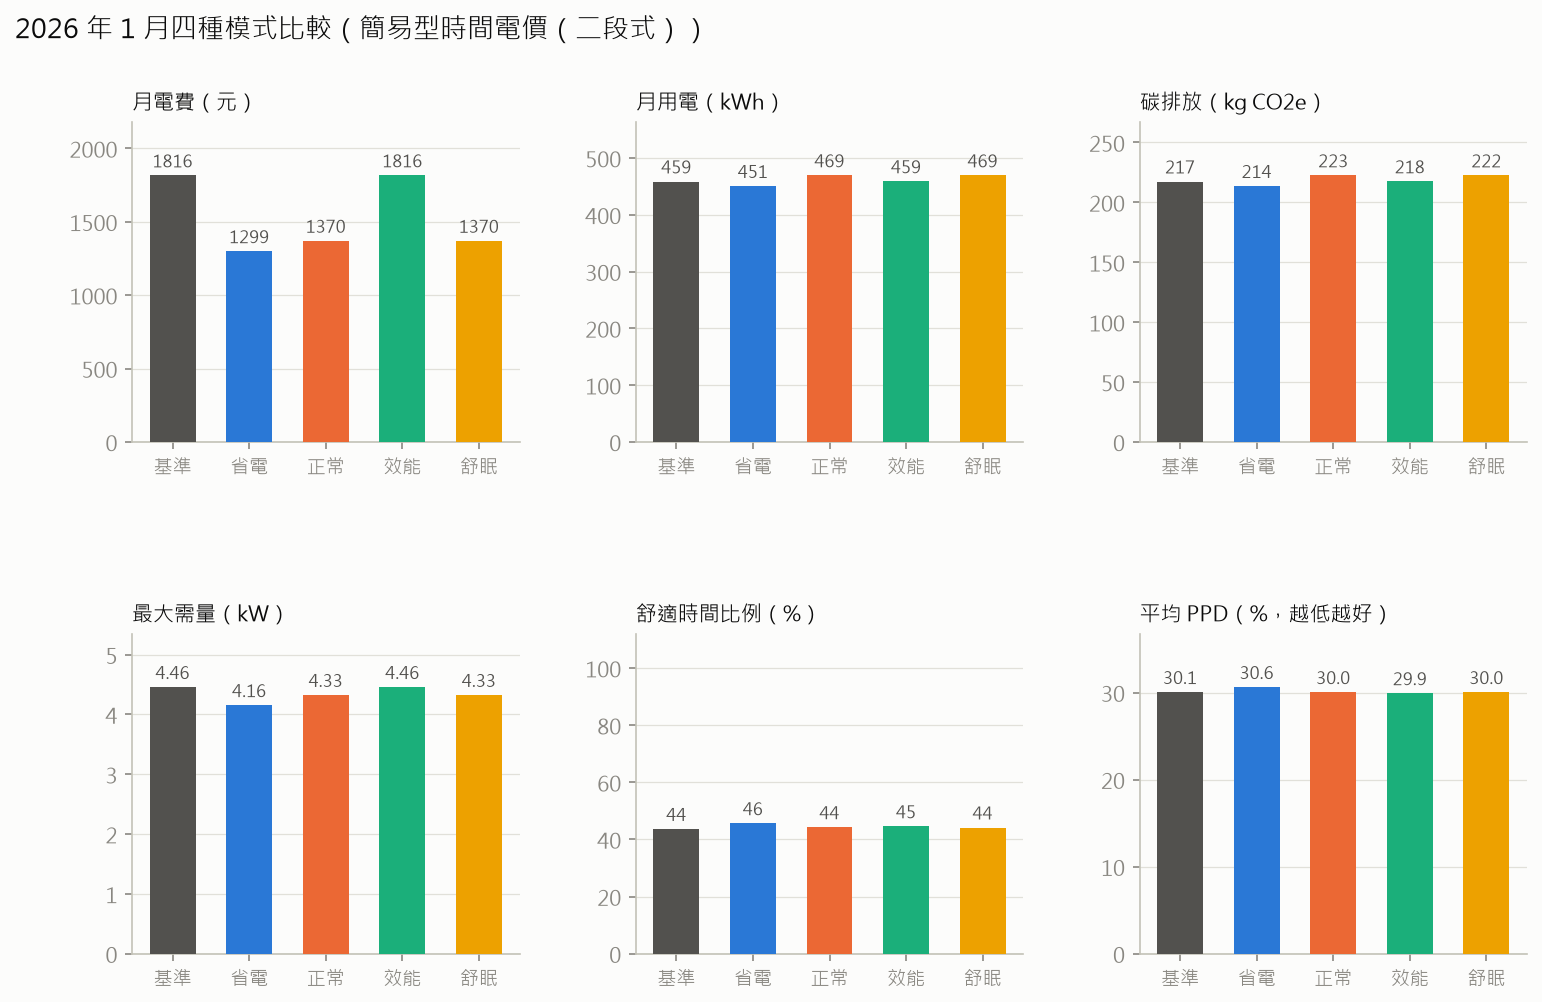
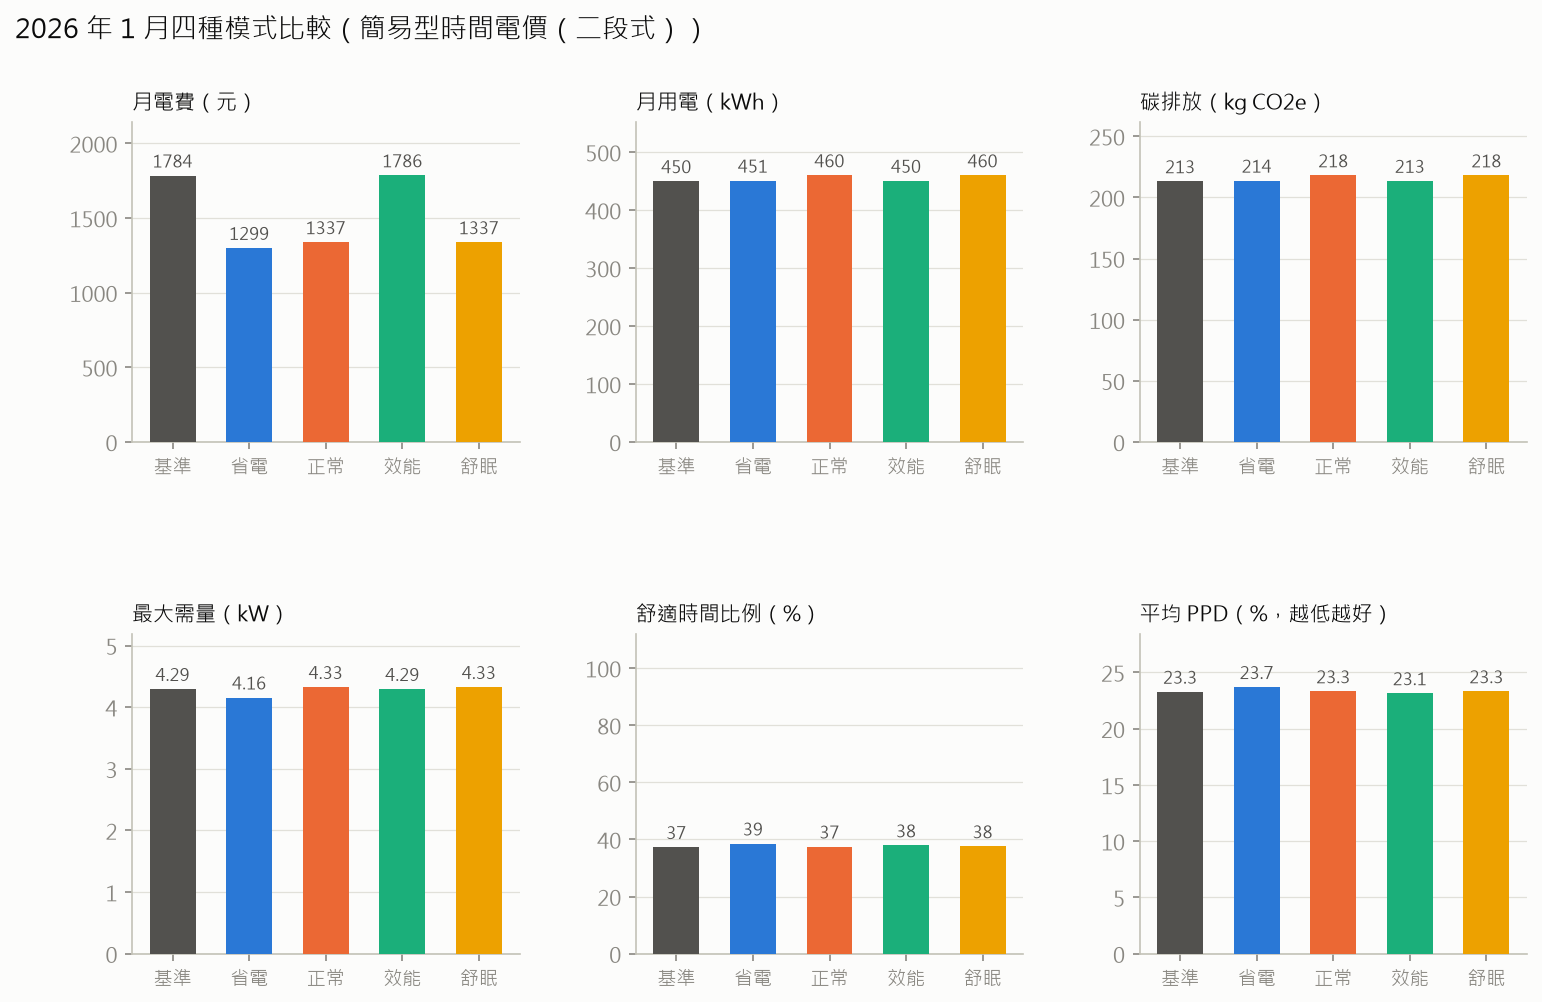
修正：計算子程序重跑整個網頁程式、分析頁模式比較偶發錯誤；清理與文件更新
- core/parallel.py：在 Streamlit 裡開子程序時暫時把主程式換成空模組。原本 Windows／spawn 會讓每個子程序
  重新執行 app.py（載入設定檔、建立模型、自動存檔），一次整月分析多跑 12 次網頁程式；
  修正後載入設定檔 13 → 1 次，第一次整月分析 4.8 → 3.3 秒，雲端單核心主機影響更大
- ui/context.py：模式比較改用屬性判斷取代 isinstance（開發時模組重新載入後快取物件類別不同，記錄檔中的
  'SimulationResult' object has no attribute 'result'）
- 移除未使用的 Tariff.plan_names；.streamlit/config.toml 隱藏開發者用的 Deploy 按鈕
- GitHub Actions 升級 checkout@v5、setup-python@v6（Node 20 即將淘汰）
- 重新產生 docs/reports/report_2026-01／07.md 與整月比較圖；data/public/README.md 比較表更新為目前模型
- 新增測試：子程序不重跑網頁程式、命令列腳本不受影響

diff --git a/core/parallel.py b/core/parallel.py
@@ -10,8 +10,11 @@ from __future__ import annotations
 import logging
 import multiprocessing
 import os
+import sys
+import types
 from collections.abc import Callable
 from concurrent.futures import ProcessPoolExecutor
+from contextlib import contextmanager
 from pathlib import Path
 
 log = logging.getLogger("hems.parallel")
@@ -63,6 +66,30 @@ def _pool() -> ProcessPoolExecutor:
     return _POOL
 
 
+@contextmanager
+def _plain_main():
+    """在 Streamlit 伺服器裡開子程序時，暫時把主程式換成空模組。
+
+    Windows（spawn）開子程序時會重新執行「主程式」準備環境；Streamlit 把 app.py 登記為主程式，
+    結果每個計算子程序都把整個網頁程式跑一遍（載入設定檔、建立模型、自動存檔），浪費時間、記憶體，
+    也可能同時寫入資料庫。計算函式都在 core/ 的模組裡，子程序不需要主程式。
+    命令列腳本不受影響（它們的平行函式可能定義在腳本本身，子程序需要載入主程式）。"""
+    try:
+        from streamlit import runtime
+        in_streamlit = runtime.exists()
+    except ImportError:
+        in_streamlit = False
+    main = sys.modules.get("__main__")
+    if not in_streamlit or main is None:
+        yield
+        return
+    sys.modules["__main__"] = types.ModuleType("__main__")
+    try:
+        yield
+    finally:
+        sys.modules["__main__"] = main
+
+
 def parallel_map(fn: Callable, items, *args) -> list:
     """回傳 [fn(item, *args) for item in items]，依 items 順序。fn 必須是模組層級的函式（才能傳給其他程序）。"""
     global _POOL
@@ -70,7 +97,8 @@ def parallel_map(fn: Callable, items, *args) -> list:
     if worker_count() <= 1 or len(items) <= 1:
         return [fn(item, *args) for item in items]
     try:
-        futures = [_pool().submit(fn, item, *args) for item in items]
+        with _plain_main():
+            futures = [_pool().submit(fn, item, *args) for item in items]
         return [f.result() for f in futures]
     except Exception as e:   # noqa: BLE001
         # 無法傳給其他程序（Python 3.11 序列化區域函式丟 AttributeError、3.14 丟 PicklingError）、

diff --git a/tests/test_parallel.py b/tests/test_parallel.py
@@ -51,3 +51,18 @@ def test_postgres_connection_is_encrypted(monkeypatch):
     assert "ssl_context" in connect_args("postgresql+pg8000://u:p@db.example.com:5432/postgres")
     monkeypatch.setenv("HEMS_DB_SSL", "disable")
     assert connect_args("postgresql+pg8000://u:p@localhost/postgres") == {}
+
+
+def test_workers_do_not_rerun_streamlit_app(monkeypatch):
+    # 在 Streamlit 裡開子程序時，主程式（app.py）暫時換成空模組，子程序不會把整個網頁程式重跑一遍
+    import sys
+
+    from streamlit import runtime
+    real_main = sys.modules["__main__"]
+    monkeypatch.setattr(runtime, "exists", lambda: True)
+    with parallel._plain_main():
+        assert sys.modules["__main__"] is not real_main and not hasattr(sys.modules["__main__"], "__file__")
+    assert sys.modules["__main__"] is real_main                      # 結束後還原
+    monkeypatch.setattr(runtime, "exists", lambda: False)
+    with parallel._plain_main():
+        assert sys.modules["__main__"] is real_main                  # 命令列腳本不受影響

diff --git a/ui/context.py b/ui/context.py
@@ -36,7 +36,9 @@ def get_analyzer(settings_key: str) -> Analyzer:
 @st.cache_data(max_entries=16, show_spinner="四種模式最佳化中…")
 def compare_day(_analyzer: Analyzer, settings_key: str, day: date, plan_id: str):
     table, results = _analyzer.compare_day(day, plan_id)
-    sims = {BASELINE if k == "基準" else _analyzer.opt.modes[k].name: (r if isinstance(r, SimulationResult) else r.result)
+    # 最佳化結果包著推演結果（.result）；基準直接是推演結果。用屬性判斷而不用 isinstance：
+    # 開發時 Streamlit 重新載入模組後，快取裡舊物件的類別和新類別不同，isinstance 會誤判
+    sims = {BASELINE if k == "基準" else _analyzer.opt.modes[k].name: getattr(r, "result", r)
             for k, r in results.items()}
     return table, sims
 

diff --git a/core/tariff.py b/core/tariff.py
@@ -45,9 +45,6 @@ class Tariff:
                     if hours != list(range(24)):
                         raise ValueError(f"{pid} {season} {day_type} 的時段沒有剛好涵蓋 24 小時")
 
-    def plan_names(self) -> dict[str, str]:
-        return {pid: p["name"] for pid, p in self.plans.items()}
-
     def is_summer(self, day: date) -> bool:
         return day.month in self.config["summer_months"]
 

diff --git a/docs/reports/report_2026-07.md b/docs/reports/report_2026-07.md
@@ -1,4 +1,4 @@
-# 2026 年 7 月 HEMS 模式比較與節省建議
+# 2026 年 7 月 HEMS 模式比較與節省建議
 
 - 房型：標配房型（3 房 2 衛），4 人
 - 電價方案：簡易型時間電價（二段式）（各模式依此方案最佳化）
@@ -9,40 +9,39 @@
 
 | 模式 | 月用電(kWh) | 簡易型時間電價（二段式）(元) | 簡易型時間電價（三段式）(元) | 非時間電價（累進電價，住宅用）(元) | 平均舒適時間比例(%) | 平均溫差(°C) | 最大需量(kW) | 碳排放(kg) | 平均PPD(%) | PMV舒適比例(%) | 月電費節省(%) |
 |---|---|---|---|---|---|---|---|---|---|---|---|
-| 基準（一般習慣） | 562.0 | 2183.6 | 2647.3 | 1714.0 | 59.3 | 1.7 | 4.0 | 266.4 | 11.7 | 5.9 | 0.0 |
-| 省電模式 | 457.5 | 1518.3 | 1742.2 | 1233.4 | 76.8 | 1.6 | 2.5 | 216.8 | 15.8 | 55.2 | 30.5 |
-| 正常模式 | 506.7 | 1706.1 | 1957.2 | 1429.4 | 97.6 | 0.8 | 2.6 | 240.2 | 7.5 | 93.7 | 21.9 |
-| 效能模式 | 523.0 | 2064.1 | 2498.0 | 1513.5 | 100.0 | 0.7 | 4.0 | 247.9 | 5.8 | 100.0 | 5.5 |
-| 舒眠模式 | 513.6 | 1734.8 | 1990.5 | 1464.8 | 97.6 | 0.6 | 2.7 | 243.4 | 7.0 | 93.6 | 20.6 |
+| 基準（一般習慣） | 634.6 | 2469.3 | 3007.5 | 2086.9 | 59.1 | 1.7 | 4.0 | 300.8 | 10.2 | 64.8 | 0.0 |
+| 省電模式 | 501.1 | 1696.8 | 1970.1 | 1400.6 | 71.9 | 1.6 | 3.1 | 237.5 | 18.2 | 18.4 | 31.3 |
+| 正常模式 | 567.9 | 1946.7 | 2263.8 | 1743.9 | 97.9 | 0.8 | 3.4 | 269.2 | 8.8 | 92.8 | 21.2 |
+| 效能模式 | 582.0 | 2305.4 | 2809.0 | 1816.7 | 100.0 | 0.7 | 4.0 | 275.9 | 5.8 | 100.0 | 6.6 |
+| 舒眠模式 | 573.1 | 1972.3 | 2292.8 | 1770.6 | 97.8 | 0.6 | 3.4 | 271.6 | 8.2 | 93.2 | 20.1 |
 
-![模式比較](../images/compare_month_2026-07.png)
+![模式比較](compare_month_2026-07.png)
 
 ## 節省建議（依每月可省金額排序）
 
-1. **綜合建議：每月約省 754 元（55 度）**  
-   改用正常模式並換成非時間電價（累進電價，住宅用）：每月電費 2184 → 1429 元（−35%），碳排放減少 26 kg CO2e，舒適時間同時由 59% 提升到 98%。  
+1. **綜合建議：每月約省 725 元（67 度）**  
+   改用正常模式並換成非時間電價（累進電價，住宅用）：每月電費 2469 → 1744 元（−29%），碳排放減少 32 kg CO2e，舒適時間同時由 59% 提升到 98%。  
    ※ 以下各項建議彼此有重疊，請勿直接相加。
-2. **改用正常模式：每月約省 478 元（55 度）**  
-   在舒適時間 ≥ 95% 的模式中電費最低；舒適時間由 59% 變為 98%，PMV 舒適比例 6% → 94%。  
+2. **改用正常模式：每月約省 523 元（67 度）**  
+   在舒適時間 ≥ 95% 的模式中電費最低；舒適時間由 59% 變為 98%，PMV 舒適比例 65% → 93%。  
    ※ 包含冷氣設定最佳化與可移轉負載排程。
-3. **改用非時間電價（累進電價，住宅用）：每月約省 277 元（用電量不變，省在電價）**  
-   以正常模式的用電模式計算，非時間電價（累進電價，住宅用）每月 1429 元，比目前的簡易型時間電價（二段式） 1706 元便宜。原因：冷氣多在晚間尖峰使用且無法移轉，時間電價的離峰優惠用不到。  
-   ※ 以已改用推薦模式為前提，可與「改用模式」相加。
-4. **熱水與洗衣移到離峰：每月約省 247 元（用電量不變，省在電價）**  
+3. **熱水與洗衣移到離峰：每月約省 247 元（用電量不變，省在電價）**  
    電熱水器、洗衣機、烘衣機用定時器排在離峰時段（已計入熱水器提早燒的散熱損失），並錯開運轉以降低最大需量。  
    ※ 已包含在「改用正常模式」的節省中。
-5. **耗電大戶：電熱水器（占 15%）：每月約省 236 元（61 度）**  
+4. **耗電大戶：電熱水器（占 14%）：每月約省 236 元（61 度）**  
    電熱水器換成熱泵熱水器（COP 約 3–4）（設備投資，需評估回收年限）。  
    ※ 以基準用電估算；設備改善與行為改善可疊加，但比例會縮小。
-6. **耗電大戶：冷氣（占 48%）：每月約省 159 元（41 度）**  
+5. **改用非時間電價（累進電價，住宅用）：每月約省 203 元（用電量不變，省在電價）**  
+   以正常模式的用電模式計算，非時間電價（累進電價，住宅用）每月 1744 元，比目前的簡易型時間電價（二段式） 1947 元便宜。原因：冷氣多在晚間尖峰使用且無法移轉，時間電價的離峰優惠用不到。  
+   ※ 以已改用推薦模式為前提，可與「改用模式」相加。
+6. **耗電大戶：冷氣（占 54%）：每月約省 201 元（52 度）**  
    冷氣換成一級能效變頻機，並定期清洗濾網（設備投資，需評估回收年限）。  
    ※ 以基準用電估算；設備改善與行為改善可疊加，但比例會縮小。
-7. **冷氣調高 1°C：每月約省 131 元（37 度）**  
-   冷氣設定從 25°C 調到 26°C，冷氣用電減少 14%。經濟部建議冷氣設定 26–28°C。  
+7. **冷氣調高 1°C：每月約省 149 元（42 度）**  
+   冷氣設定從 25°C 調到 26°C，冷氣用電減少 12%。經濟部建議冷氣設定 26–28°C。  
    ※ 不想改用模式時，只做這一步的效果；已包含在「改用模式」的節省中。
-8. **耗電大戶：冰箱（占 7%）：每月約省 29 元（7 度）**  
+8. **耗電大戶：冰箱（占 6%）：每月約省 29 元（7 度）**  
    冰箱勿過滿、門封條定期檢查；老舊冰箱汰換為一級能效（設備投資，需評估回收年限）。  
    ※ 以基準用電估算；設備改善與行為改善可疊加，但比例會縮小。
 9. **避免入睡後過冷**  
    基準情境舒適時間只有 59%：入睡後代謝率下降，整夜維持低溫反而偏冷。可用舒眠模式讓設定溫度隨睡眠逐步調高、起床前回溫。
-

diff --git a/docs/reports/report_2026-01.md b/docs/reports/report_2026-01.md
@@ -1,4 +1,4 @@
-# 2026 年 1 月 HEMS 模式比較與節省建議
+# 2026 年 1 月 HEMS 模式比較與節省建議
 
 - 房型：標配房型（3 房 2 衛），4 人
 - 電價方案：簡易型時間電價（二段式）（各模式依此方案最佳化）
@@ -9,23 +9,23 @@
 
 | 模式 | 月用電(kWh) | 簡易型時間電價（二段式）(元) | 簡易型時間電價（三段式）(元) | 非時間電價（累進電價，住宅用）(元) | 平均舒適時間比例(%) | 平均溫差(°C) | 最大需量(kW) | 碳排放(kg) | 平均PPD(%) | PMV舒適比例(%) | 月電費節省(%) |
 |---|---|---|---|---|---|---|---|---|---|---|---|
-| 基準（一般習慣） | 458.7 | 1815.6 | 1688.9 | 1091.0 | 43.6 | 2.1 | 4.5 | 217.4 | 30.1 | 35.2 | 0.0 |
-| 省電模式 | 450.7 | 1299.1 | 1249.0 | 1065.9 | 45.6 | 2.1 | 4.2 | 213.6 | 30.6 | 35.1 | 28.4 |
-| 正常模式 | 469.5 | 1370.1 | 1314.9 | 1124.8 | 44.2 | 2.1 | 4.3 | 222.5 | 30.0 | 35.0 | 24.5 |
-| 效能模式 | 459.0 | 1816.2 | 1689.5 | 1091.8 | 44.6 | 2.1 | 4.5 | 217.5 | 29.9 | 36.5 | -0.0 |
-| 舒眠模式 | 469.4 | 1369.9 | 1314.7 | 1124.5 | 44.2 | 2.1 | 4.3 | 222.5 | 30.0 | 35.0 | 24.6 |
+| 基準（一般習慣） | 449.6 | 1784.1 | 1659.5 | 1062.7 | 37.3 | 2.1 | 4.3 | 213.1 | 23.3 | 50.5 | 0.0 |
+| 省電模式 | 450.7 | 1299.1 | 1249.0 | 1065.9 | 38.5 | 2.1 | 4.2 | 213.6 | 23.7 | 48.8 | 27.2 |
+| 正常模式 | 459.9 | 1337.5 | 1284.3 | 1094.8 | 37.5 | 2.1 | 4.3 | 218.0 | 23.3 | 50.0 | 25.0 |
+| 效能模式 | 450.3 | 1785.5 | 1660.9 | 1064.9 | 37.9 | 2.1 | 4.3 | 213.5 | 23.1 | 50.8 | -0.1 |
+| 舒眠模式 | 459.8 | 1337.3 | 1284.1 | 1094.4 | 37.6 | 2.1 | 4.3 | 217.9 | 23.3 | 50.0 | 25.0 |
 
-![模式比較](../images/compare_month_2026-01.png)
+![模式比較](compare_month_2026-01.png)
 
 ## 節省建議（依每月可省金額排序）
 
-1. **綜合建議：每月約省 750 元（8 度）**  
-   改用省電模式並換成非時間電價（累進電價，住宅用）：每月電費 1816 → 1066 元（−41%），碳排放減少 4 kg CO2e，舒適度大致維持不變。  
+1. **綜合建議：每月約省 718 元（用電量不變，省在電價）**  
+   改用省電模式並換成非時間電價（累進電價，住宅用）：每月電費 1784 → 1066 元（−40%），碳排放減少 -0 kg CO2e，舒適度大致維持不變。  
    ※ 以下各項建議彼此有重疊，請勿直接相加。
-2. **改用省電模式：每月約省 517 元（8 度）**  
-   各模式都無法達到 95% 舒適時間（此季節室溫主要受天氣影響，系統沒有暖氣可調），選電費最低者；舒適時間由 44% 變為 46%，PMV 舒適比例 35% → 35%。  
+2. **改用省電模式：每月約省 485 元（用電量不變，省在電價）**  
+   各模式都無法達到 95% 舒適時間（此季節室溫主要受天氣影響，系統沒有暖氣可調），選電費最低者；舒適時間由 37% 變為 39%，PMV 舒適比例 50% → 49%。  
    ※ 此季節冷氣幾乎不開，節省主要來自可移轉負載排程與照明調整。
-3. **耗電大戶：電熱水器（占 37%）：每月約省 464 元（117 度）**  
+3. **耗電大戶：電熱水器（占 37%）：每月約省 465 元（117 度）**  
    電熱水器換成熱泵熱水器（COP 約 3–4）（設備投資，需評估回收年限）。  
    ※ 以基準用電估算；設備改善與行為改善可疊加，但比例會縮小。
 4. **熱水與洗衣移到離峰：每月約省 451 元（用電量不變，省在電價）**  
@@ -34,7 +34,6 @@
 5. **改用非時間電價（累進電價，住宅用）：每月約省 233 元（用電量不變，省在電價）**  
    以省電模式的用電模式計算，非時間電價（累進電價，住宅用）每月 1066 元，比目前的簡易型時間電價（二段式） 1299 元便宜。原因：這個家庭的月用電落在累進電價的較低級距，平均單價比時間電價的尖峰電價低得多，而晚間照明、炊煮等用電仍在尖峰時段。  
    ※ 以已改用推薦模式為前提，可與「改用模式」相加。
-6. **耗電大戶：烘衣機（占 11%）：每月約省 103 元（26 度）**  
+6. **耗電大戶：烘衣機（占 12%）：每月約省 104 元（26 度）**  
    烘衣機換成熱泵式乾衣機，或晴天改用自然晾乾（設備投資，需評估回收年限）。  
    ※ 以基準用電估算；設備改善與行為改善可疊加，但比例會縮小。
-

diff --git a/data/public/README.md b/data/public/README.md
@@ -11,26 +11,25 @@
 - 台灣電力公司住宅用戶每月平均用電度數及電費 https://data.gov.tw/dataset/17062
 - 台灣電力公司各縣市住宅、服務業及機關用電統計資料 https://data.gov.tw/dataset/29935
 
-## 與模擬的初步比較（2026 年 1–9 月，標配房型、一般習慣）
+## 與模擬的比較（2026 年 1–9 月，標配房型、一般習慣；目前模型含西曬、濕度、隔間熱交換）
 
 | 月份 | 模擬（4 人家庭，度） | 全國每戶平均（度） | 台中住宅總量（億度） |
 |---|---|---|---|
-| 2026-01 | 458.7 | 238 | 4.5 |
-| 2026-02 | 401.2 | 232 | 4.5 |
-| 2026-03 | 418.6 | 251 | 4.7 |
-| 2026-04 | 422.1 | 244 | 4.7 |
-| 2026-05 | 506.1 | 262 | 4.9 |
-| 2026-06 | 518.4 | 289 | 5.7 |
-| 2026-07 | 562.0 | 350 | 6.7 |
-| 2026-08 | 553.4 | 382 | 7.4 |
-| 2026-09 | 516.0 | 389 | — |
+| 2026-01 | 449 | 238 | 4.5 |
+| 2026-02 | 396 | 232 | 4.5 |
+| 2026-03 | 416 | 251 | 4.7 |
+| 2026-04 | 445 | 244 | 4.7 |
+| 2026-05 | 552 | 262 | 4.9 |
+| 2026-06 | 574 | 289 | 5.7 |
+| 2026-07 | 634 | 350 | 6.7 |
+| 2026-08 | 632 | 382 | 7.4 |
+| 2026-09 | 588 | 389 | — |
 
-- **季節形狀相關係數**（各自除以平均後）：模擬 vs 全國每戶 0.82、模擬 vs 台中住宅總量 0.87 → 夏高冬低的趨勢一致。
-- **實際資料的高峰晚 1–2 個月**（模擬 7 月、實際 8–9 月）：台電住宅多為**兩個月抄表一次**，月統計反映的多是前一期用電，
-  有時間落差；B1b 建模時需考慮。
-- **冬季模擬相對偏高**（模擬 ÷ 全國平均：1 月 1.93、9 月 1.33）：標配房型使用**電熱水器**（冬季每天約 5.3 度），
-  台灣多數家庭使用瓦斯熱水器 → 校正時的重要方向。
-- **整體量級**：模擬約為全國每戶平均的 1.3–1.9 倍；全國平均每戶約 2.6 人，本模擬為 4 人家庭，量級合理。
+- **季節形狀相關係數**（模擬 vs 全國每戶）：初版 0.82 → 目前 **0.86**；夏冬用電比 1.23 → **1.41**（實際 1.47）。
+  初版低估夏季冷氣的除濕用電（冷氣開機要先除掉室內累積的水氣）。
+- **實際資料的高峰晚 1–2 個月**（模擬 7 月、實際 8–9 月）：台電住宅多為**兩個月抄表一次**，月統計反映的多是前一期用電。
+- **冬季模擬相對偏高**（模擬 ÷ 全國平均：1 月 1.89、9 月 1.51）：標配房型使用**電熱水器**，台灣多數家庭使用瓦斯熱水器。
+- **整體量級**：模擬約為全國每戶平均的 1.5–1.9 倍；全國平均每戶約 2.6 人，本模擬為 4 人家庭。
 
 ## 用電預測模型（B1b）
 `python scripts/ml_forecast.py`：以全國每戶平均為目標，比較「去年同月」「純物理」「純 ML（梯度提升樹）」
